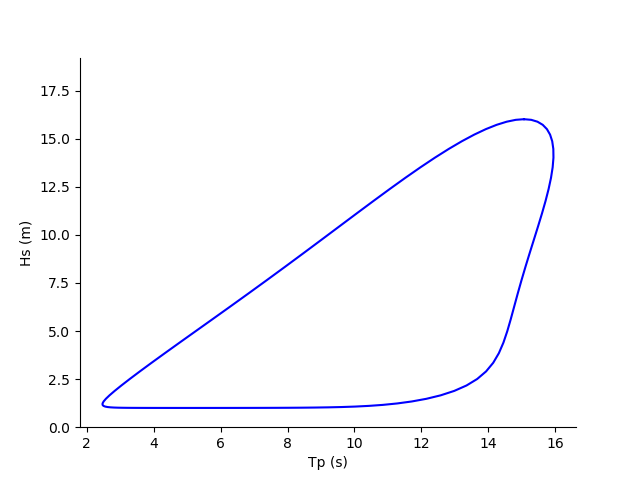
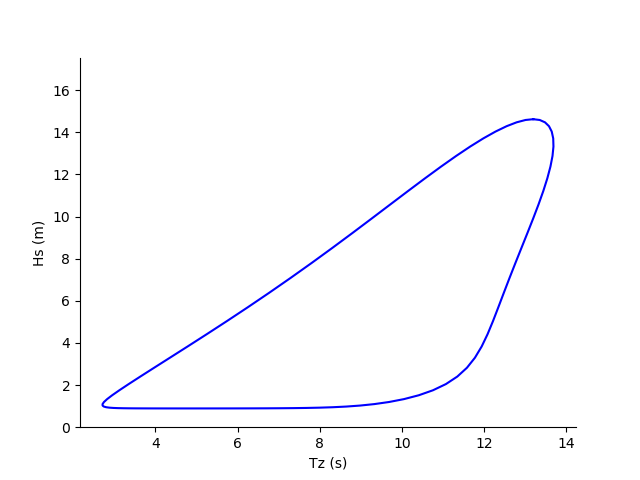
Use Vanem and B-G model in docu, change default vlaue for contours to tr = 50.

diff --git a/examples/calculate_contours_similar_to_docs.py b/examples/calculate_contours_similar_to_docs.py
@@ -6,17 +6,20 @@ from viroconcom.distributions import WeibullDistribution, LognormalDistribution,
 from viroconcom.contours import IFormContour, HighestDensityContour
 from viroconcom.plot import plot_contour
 
+# In this example will use the sea state model that was proposed by
+# Vanem and Bitner-Gregersen (2012; DOI: 10.1016/j.apor.2012.05.006) and compute
+# environmental contours with return periods of 25 years.
 
 # Define a Weibull distribution representing significant wave height.
-shape = ConstantParam(1.5)
-loc = ConstantParam(1)
-scale = ConstantParam(3)
+shape = ConstantParam(1.471)
+loc = ConstantParam(0.8888)
+scale = ConstantParam(2.776)
 dist0 = WeibullDistribution(shape, loc, scale)
 dep0 = (None, None, None) # All three parameters are independent.
 
 # Define a Lognormal distribution representing spectral peak period.
-my_sigma = FunctionParam('exp3', 0.05, 0.2, -0.2)
-my_mu = FunctionParam('power3', 0.1, 1.5, 0.2)
+my_sigma = FunctionParam('exp3', 0.04, 0.1748, -0.2243)
+my_mu = FunctionParam('power3', 0.1, 1.489, 0.1901)
 dist1 = LognormalDistribution(sigma=my_sigma, mu=my_mu)
 dep1 = (0, None, 0) # Parameter one and three depend on dist0.
 
@@ -26,25 +29,26 @@ dependencies = [dep0, dep1]
 mul_dist = MultivariateDistribution(distributions, dependencies)
 
 # Compute an IFORM contour with a return period of 25 years and a sea state
-# duration of 3 hours.
-iform_contour = IFormContour(mul_dist, 25, 3)
+# duration of 6 hours. Calculate 90 points along the contour.
+iform_contour = IFormContour(mul_dist, 25, 6, 90)
 
 # Compute a highest density contour with the same settings (25 years return
-# period, 3 hour sea state duration).
+# period, 6 hour sea state duration).
 limits = [(0, 20), (0, 20)] # The limits of the computational domain.
 deltas = [0.4, 0.4] # The dimensions of the grid cells.
-hdens_contour = HighestDensityContour(mul_dist, 25, 3, limits, deltas)
+hdens_contour = HighestDensityContour(mul_dist, 25, 6, limits, deltas)
 
 # Plot the two contours.
 plt.scatter(iform_contour.coordinates[1], iform_contour.coordinates[0],
             label='IFORM contour')
 plt.scatter(hdens_contour.coordinates[1], hdens_contour.coordinates[0],
             label='Highest density contour')
-plt.xlabel('Spectral peak period, Tp (s)')
+plt.xlabel('Zero-up-crossing period, Tz (s)')
 plt.ylabel('Significant wave height, Hs (m)')
 plt.legend()
 plt.show()
 
+# Alternatively, we can plot using viroconcom's plot_contour() function.
 plot_contour(iform_contour.coordinates[1], iform_contour.coordinates[0],
-             x_label='Tp (s)', y_label='Hs (m)')
+             x_label='Tz (s)', y_label='Hs (m)')
 plt.show()

diff --git a/viroconcom/contours.py b/viroconcom/contours.py
@@ -84,7 +84,7 @@ class Contour(ABC):
 
 
 class IFormContour(Contour):
-    def __init__(self, mul_var_distribution, return_period=25, state_duration=3,
+    def __init__(self, mul_var_distribution, return_period=50, state_duration=3,
                  n_points=180, timeout=None):
         """
         Contour based on the inverse first-order reliability method.
@@ -204,7 +204,7 @@ class IFormContour(Contour):
 
 
 class ISormContour(Contour):
-    def __init__(self, mul_var_distribution, return_period=25, state_duration=3,
+    def __init__(self, mul_var_distribution, return_period=50, state_duration=3,
                  n_points=180, timeout=None):
         """
         Contour based on the inverse second-order reliability method.
@@ -327,7 +327,7 @@ class ISormContour(Contour):
 
 
 class DirectSamplingContour(Contour):
-    def __init__(self, mul_var_dist, return_period=1, state_duration=3,
+    def __init__(self, mul_var_dist, return_period=50, state_duration=3,
                  n=100000, deg_step=5, sample=None, timeout=None):
         """
         Drect sampling contour as introduced by Huseby et al. (2013), see
@@ -445,7 +445,7 @@ class DirectSamplingContour(Contour):
 
 
 class HighestDensityContour(Contour):
-    def __init__(self, mul_var_distribution, return_period=25, state_duration=3,
+    def __init__(self, mul_var_distribution, return_period=50, state_duration=3,
                  limits=None, deltas=None, timeout=None):
         """
         Contour based on highest density contour method.

diff --git a/docs/jointdistribution_and_contours.rst b/docs/jointdistribution_and_contours.rst
@@ -27,7 +27,9 @@ contour with viroconcom can be summarized as:
 These steps are explained in more detail in the following.
 
 The file calculate_contours_similar_to_docs_ contains all the code that we will
-show on this page.
+show on this page. We will use the sea state model that was proposed by
+Vanem and Bitner-Gregersen (2012; DOI: 10.1016/j.apor.2012.05.006) and compute
+environmental contours with return periods of 25 years.
 
 .. _calculate_contours_similar_to_docs: https://github.com/virocon-organization/viroconcom/blob/master/examples/calculate_contours_similar_to_docs.py
 
@@ -67,14 +69,14 @@ For the parameters there is the abstract class
 distribution, we use the subclass :class:`~viroconcom.params.ConstantParam` to
 define ``shape``, ``loc``, and ``scale``.
 
-Say we want to create a Weibull distribution with ``shape=1.5``, ``loc=1``,
-and ``scale=3``.
+Say we want to create a Weibull distribution with ``shape=1.471``, ``loc=0.8888``,
+and ``scale=2.776`` (as in the model proposed by Vanem and Bitner-Gregersen).
 
 We first create the parameters::
 
-    shape = ConstantParam(1.5)
-    loc = ConstantParam(1)
-    scale = ConstantParam(3)
+    shape = ConstantParam(1.471)
+    loc = ConstantParam(0.8888)
+    scale = ConstantParam(2.776)
 
 
 And then create our Weibull distribution::
@@ -160,17 +162,17 @@ Say we want to define the following dependence structure, where :math:`x` is a
 realization of :math:`X`:
 
 .. math::
-    \sigma(x) = 0.05 + 0.2 * e^{-0.2}
+    \sigma(x) = 0.04 + 0.1748 * e^{-0.2243}
 
 .. math::
-    \mu(x) = 0.1 + 1.5^{x * 0.2}
+    \mu(x) = 0.1 + 1.489^{x * 0.1901}
 
 In viroconcom, to define this dependence structure, first we create the
 parameters as :class:`~viroconcom.params.FunctionParam` using the keywords
 "exp3" and "power" to specify the wanted dependence functions ::
 
-    my_sigma = FunctionParam(0.05, 0.2, -0.2, "exp3")
-    my_mu = FunctionParam(0.1, 1.5, 0.2, "power3")
+    my_sigma = FunctionParam('exp3', 0.04, 0.1748, -0.2243)
+    my_mu = FunctionParam('power3', 0.1, 1.489, 0.1901)
 
 Then we create the :class:`~viroconcom.distribution.LognormalDistribution`
 using the ``mu`` ``sigma`` constructor::
@@ -184,8 +186,8 @@ And eventually define the dependency tuple::
 Alternativly we could have defined the distribution as follows,
 using the wrapper argument of the :class:`~viroconcom.params.FunctionParam`::
 
-    shape = FunctionParam(0.05, 0.2, -0.2, "exp3")
-    scale = FunctionParam(0.1, 1.5, 0.2, "power3", wrapper=numpy.exp)
+    shape = FunctionParam(0.04, 0.1748, -0.2243, "exp3")
+    scale = FunctionParam(0.1, 1.1489, 0.1901, "power3", wrapper=numpy.exp)
     dist1 = LognormalDistribution(shape, None, scale)
     dep1 = (0, None, 0)
 
@@ -240,11 +242,12 @@ With all contours, we need to specify the return period and the state duration.
 In addition, to create an IFORM contour we need to specify the number of points
 along the contour that shall be calculated.
 
-With the :ref:`previously created <bundle-multvar-dist>` ``mul_dist`` a
-contour with a ``return_period`` of ``25`` years  and  a
-``state_duration`` of ``3`` hours can be created like this::
+Let us calculate 90 points along the contour such that we have a resolution of 2
+degrees. With the :ref:`previously created <bundle-multvar-dist>` ``mul_dist``,
+we can compute a contour with a ``return_period`` of ``25`` years and a
+``state_duration`` of ``6`` hours  like this::
 
-    iform_contour = IFormContour(mul_dist, 25, 3)
+    iform_contour = IFormContour(mul_dist, 25, 6, 90)
 
 
 .. _hdc:
@@ -265,7 +268,7 @@ The grid includes the min and max values: ``x = [min, min + delta, ..., max - de
 
 To create a highest density contour for the
 :ref:`previously created <bundle-multvar-dist>` ``mul_dist`` with a
-``return_period`` of ``25`` years and a ``state_duration`` of ``3``,  we first
+``return_period`` of ``25`` years and a ``state_duration`` of ``6``,  we first
 define the variable space to be between 0 and 20 and set the step size to 0.5
 in the first and 0.1 in the second dimension.::
 
@@ -274,7 +277,7 @@ in the first and 0.1 in the second dimension.::
 
 The contour can then be created as follows::
 
-    hdens_contour = HighestDensityContour(mul_dist, 25, 3, limits, deltas)
+    hdens_contour = HighestDensityContour(mul_dist, 25, 6, limits, deltas)
 
 
 Plotting the contour
@@ -290,7 +293,7 @@ Using for example ``matplotlib`` the following code... ::
                 label='IFORM contour')
     plt.scatter(hdens_contour.coordinates[1], hdens_contour.coordinates[0],
                 label='Highest density contour')
-    plt.xlabel('Spectral peak period, Tp (s)')
+    plt.xlabel('Zero-up-crossing period, Tz (s)')
     plt.ylabel('Significant wave height, Hs (m)')
     plt.legend()
     plt.show()
